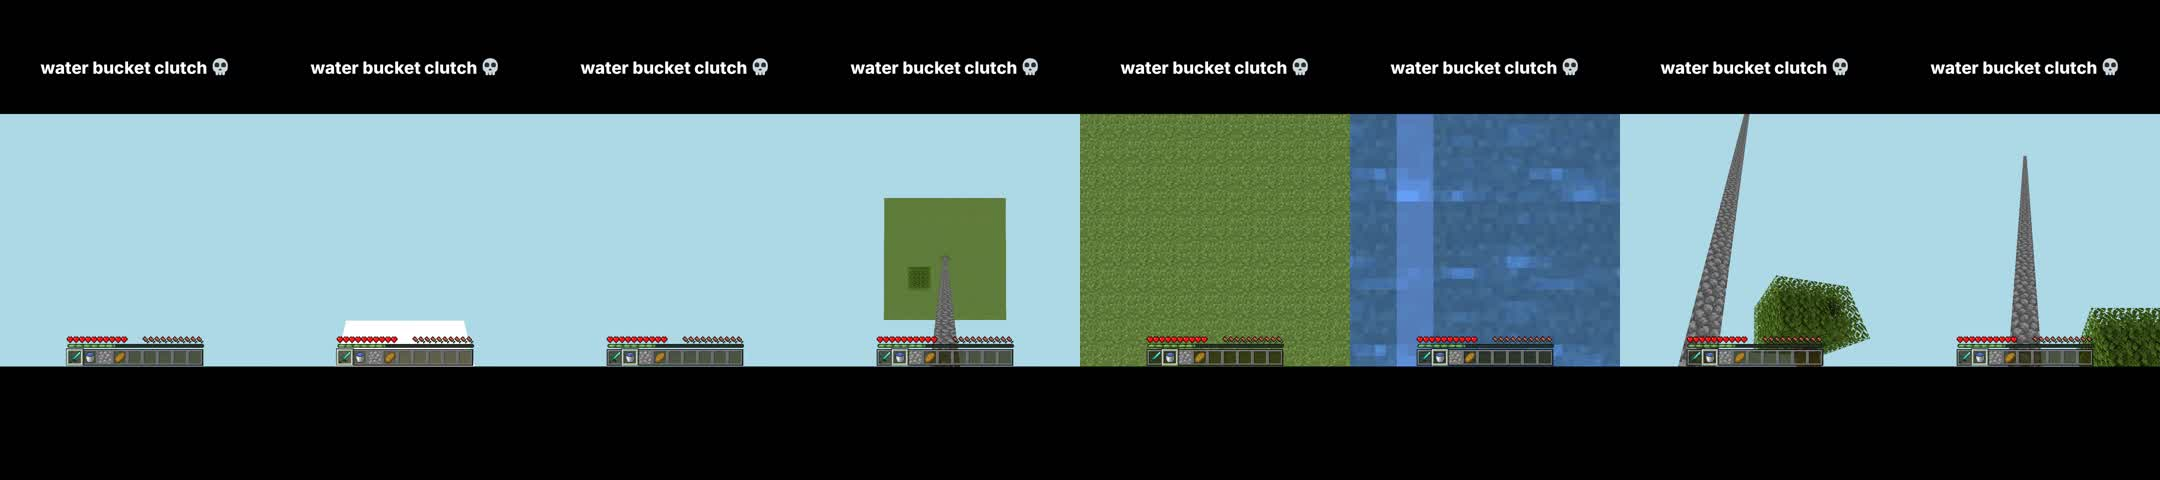
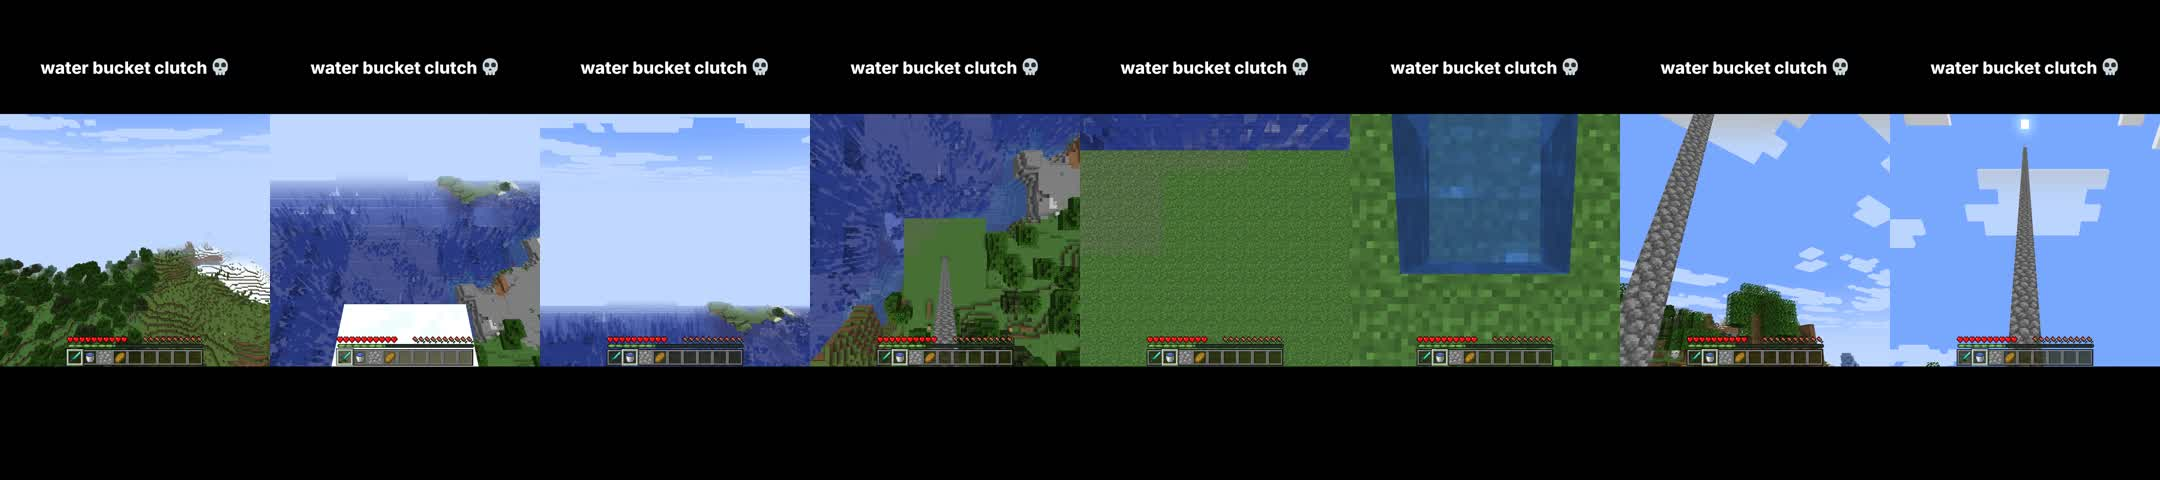
Contact sheet + timing from a from-scratch run with the new renderer (4m02s)
Claude-Session: https://claude.ai/code/session_019n1tKFAZAV7uPEWDxhJzEt

diff --git a/docs/trial.md b/docs/trial.md
@@ -4,7 +4,8 @@
 > prismarine-viewer bundle was replaced by our own renderer (`renderer/`). Textures, block
 > models and environment art now come from the 1.21.11 client jar. It adds vanilla face shading
 > and AO, sky, fog, fancy clouds, sun, view bobbing and underwater fog, with the set built in a
-> real generated forest. Render ~20 s per video second; world upload 7–14 s. The sections below
+> real generated forest. Render ~20 s per video second; world upload 7–14 s. From scratch with the new renderer, `./run.sh` took
+> **4 min 2 s** (asset build included, first-try clutch, 7.85 s at 60 fps, -18.8 LUFS). The sections below
 > describe the first version where they differ.
 
 **Verdict: go, with caveats.** Measured from scratch in this container (4 CPUs, no GPU): `./run.sh`
